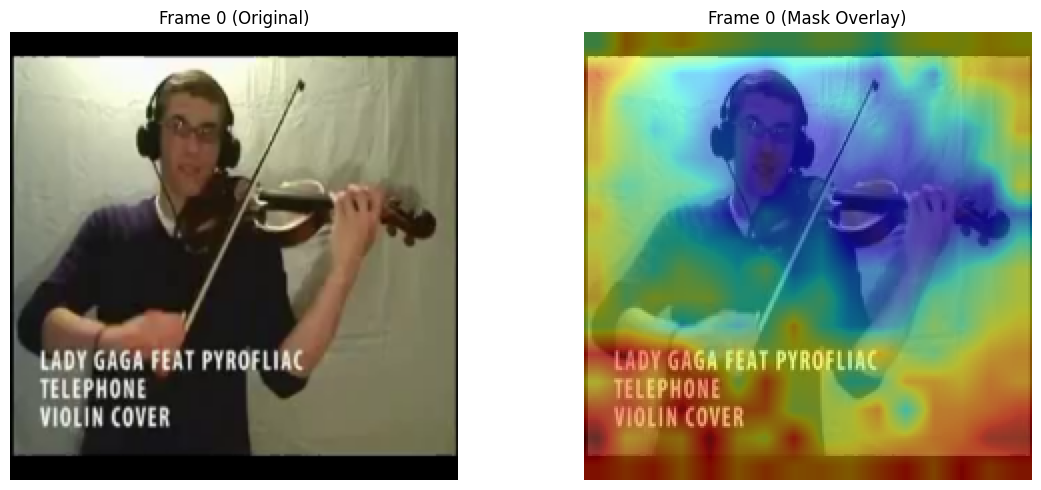
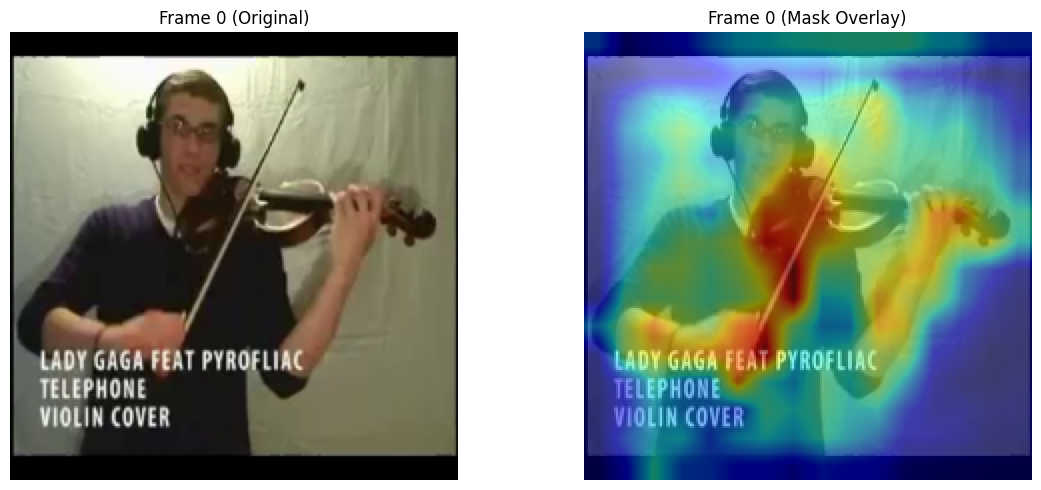
dinon finetune initial

diff --git a/DiffTrack/point_sampling/train_new.py b/DiffTrack/point_sampling/train_new.py
@@ -1,5 +1,5 @@
 import os
-os.environ["CUDA_VISIBLE_DEVICES"] = "0,1,2,3"
+os.environ["CUDA_VISIBLE_DEVICES"] = "2,3,4,5"
 
 import torch
 import torch.nn.functional as F
@@ -9,7 +9,7 @@ from torch.utils.data import DataLoader
 from model_finetune import DINOv2_LoRA, get_robust_mask
 import random
 import numpy as np
-from data_utils import UCFRep_Finetune
+from data_utils import UCFRep_finetune
 SEED = 42
 
 def seed_everything(seed: int = SEED) -> None:
@@ -29,21 +29,14 @@ def train():
     device = torch.device("cuda" if torch.cuda.is_available() else "cpu")
     
     #use the new hybrid dataset
-    dataset = UCFRep_Finetune(
-        mp4_dir="UCF_Rep/train", 
+    dataset = UCFRep_finetune(
+        mp4_dir="UCF_Rep/train",
         pt_dir="ucfrep_intermediate_dataset", 
     )
     dataloader = DataLoader(dataset, batch_size=16, shuffle=True, drop_last=True) #EXPERIMENT WITH BATCH NEGATIVES LATER??
     
-    
-    '''
-    now make the mask using flow + depth:
-    '''
-    
-    
-    
-    #init lora model
-    model = DINOv2_LoRA().to(device)
+    #init lora model with the new head
+    model = DINOv2_LoRA().to(device)    
     
     num_gpus = torch.cuda.device_count() 
     print(f"Active GPUs for this session: {num_gpus}")
@@ -51,101 +44,100 @@ def train():
     if num_gpus > 1:
         model = nn.DataParallel(model)
         
-    #only optimize the lora parameters, not the frozen backbone
-    #learning rate slightly higher for lora is standard practice
+    #only optimize the lora parameters AND the new seg_head
     optimizer = optim.Adam(model.parameters(), lr=1e-4)
     temperature = 0.07
     
-    #we can use amp safely now because rgb inputs are small
-    scaler = torch.amp.GradScaler('cuda')
+    #can use amp safely now because rgb inputs are small
+    # scaler = torch.amp.GradScaler('cuda')
     model.train()
     
-    for epoch in range(10):
+    for epoch in range(100):
         for batch_idx, batch in enumerate(dataloader):
             optimizer.zero_grad()
             
-            #1. move rgb frames to gpu for the model
-            anchor_pixels = batch["anchor_pixels"].to(device) #[b, t, 3, 224, 224]
-            pos_pixels = batch["pos_pixels"].to(device)
-            B, T = anchor_pixels.shape[0], anchor_pixels.shape[1]
+            # 1. Stack anchor and pos to create the T=2 dimension for the model
+            # [B, C, H, W] -> unsqueeze -> [B, 1, C, H, W] -> concat -> [B, 2, C, H, W]
+            pixels = torch.cat([batch["im1_pixels"].unsqueeze(1), batch["im2_pixels"].unsqueeze(1)], dim=1).to(device)
+            flow = torch.cat([batch["im1_flow"].unsqueeze(1), batch["im2_flow"].unsqueeze(1)], dim=1).to(device)
+            depth = torch.cat([batch["im1_depth"].unsqueeze(1), batch["im2_depth"].unsqueeze(1)], dim=1).to(device)
             
-            #2. keep physics on cpu temporarily to save vram
-            #they are only needed for the loss math later
-            anchor_flow = batch["anchor_flow"]
-            anchor_depth = batch["anchor_depth"]
-            pos_flow = batch["pos_flow"]
-            pos_depth = batch["pos_depth"]
-
-            with torch.amp.autocast('cuda'):
-                #dino features out - [b, t, 768, 16, 16]
-                anchor_dino = model(anchor_pixels)
-                pos_dino = model(pos_pixels)
-
-                #calculate masks using robust physics heuristic
-                anchor_mask_224 = get_robust_mask(anchor_flow, anchor_depth).to(device) #[b, t, 1, 224, 224]
-                pos_mask_224 = get_robust_mask(pos_flow, pos_depth).to(device)
-                
-                curr_bt = anchor_mask_224.shape[0] * anchor_mask_224.shape[1]
-                
-                #downsample masks from 224x224 to 16x16 to match dino patches
-                #we reshape to 4d for interpolate, then back to 5d
-                anchor_mask = F.interpolate(
-                    anchor_mask_224.view(curr_bt, 1, 224, 224), 
-                    size=(16, 16), 
-                    mode='nearest'
-                ).view(B, T, 1, 16, 16)
-                
-                pos_mask = F.interpolate(
-                    pos_mask_224.view(curr_bt, 1, 224, 224), 
-                    size=(16, 16), 
-                    mode='nearest'
-                ).view(B, T, 1, 16, 16)
-
-                #weighted averaging
-                #we sum across time (dim=1) and space (dim=3,4) to get one single vector per video
-                anchor_vec = torch.sum(anchor_dino * anchor_mask, dim=(1, 3, 4)) / (torch.sum(anchor_mask, dim=(1, 3, 4)) + 1e-8)
-                pos_vec = torch.sum(pos_dino * pos_mask, dim=(1, 3, 4)) / (torch.sum(pos_mask, dim=(1, 3, 4)) + 1e-8)
-                
-                anchor_vec = F.normalize(anchor_vec, dim=1) #[b, 768]
-                pos_vec = F.normalize(pos_vec, dim=1) #[b, 768]
-                
-                '''
-                contrastive learning loss! - infoNCE
-                '''
-                #infonce logits (temporal positives/negatives)
-                temporal_logits = torch.matmul(anchor_vec, pos_vec.T) / temperature #diagonals should tend to 1(positives)
-                
-                #spatial negatives (background of the same videos)
-                anchor_bg_mask = 1.0 - anchor_mask
-                anchor_bg_vec = F.normalize(torch.sum(anchor_dino * anchor_bg_mask, dim=(1, 3, 4)) / (torch.sum(anchor_bg_mask, dim=(1, 3, 4)) + 1e-8), dim=1)
-                anchor_spatial_logits = torch.sum(anchor_vec * anchor_bg_vec, dim=1, keepdim=True) / temperature
-                
-                pos_bg_mask = 1.0 - pos_mask
-                pos_bg_vec = F.normalize(torch.sum(pos_dino * pos_bg_mask, dim=(1, 3, 4)) / (torch.sum(pos_bg_mask, dim=(1, 3, 4)) + 1e-8), dim=1)
-                pos_spatial_logits = torch.sum(anchor_vec * pos_bg_vec, dim=1, keepdim=True) / temperature
-
-                #dot prod b/w bg_vec and vec s hould be very low..
-                
-                #combine and calculate loss
-                logits = torch.cat([temporal_logits, anchor_spatial_logits, pos_spatial_logits], dim=1)
-                labels = torch.arange(B).to(device)
-                loss = F.cross_entropy(logits, labels)
+            b, t = pixels.shape[0], pixels.shape[1]
             
-            #scale and step
-            scaler.scale(loss).backward()
-            scaler.step(optimizer)
-            scaler.update()
+
+            # with torch.amp.autocast('cuda'):
+            outputs = model(pixels)
+            patch_features = outputs["patch_features"] # [B, 2, 768, 16, 16]
+            pred_mask = outputs["pred_mask"]  # [B, 2, 1, 16, 16]
+
+            #creating flow+depth mask
+            high_res_mask = get_robust_mask(flow, depth) #[B, 2, 1, 224, 224]
+            #downsample it
+            high_res_mask_flat = high_res_mask.view(b * t, 1, 224, 224)
+            low_res_mask = F.interpolate(high_res_mask_flat, size=(16, 16), mode='nearest')
+            binary_mask = low_res_mask.view(b, t, 1, 16, 16) # [B, 2, 1, 16, 16]..but will downsampling ruin the mask??
+            
+            #cross entropy loss [CHECK PAPER: 'wholly unsupervised!..']
+            loss_ce = F.binary_cross_entropy(pred_mask, binary_mask)
+            
+            #contrastive loss
+            features_flat = patch_features.permute(0, 1, 3, 4, 2).reshape(-1, 768) # [num patches, 768]
+            features_flat = F.normalize(features_flat, dim=1)
+            
+            mask_flat = binary_mask.view(-1)
+            
+            #seperation
+            actor_vectors = features_flat[mask_flat == 1]
+            bg_vectors = features_flat[mask_flat == 0]
+            
+            loss_cr = torch.tensor(0.0, device=device)
+            
+            if actor_vectors.size(0) > 1 and bg_vectors.size(0) > 0:
+                
+                #similarity between all actors (positive set!)
+                sim_pos = torch.matmul(actor_vectors, actor_vectors.T) / temperature
+                
+                # mask out the diagonal (self similarity avoiding)
+                eye = torch.eye(sim_pos.size(0), device=device, dtype=torch.bool)
+                sim_pos = sim_pos.masked_fill(eye, -1e9)
+                
+                # imilarity between actors and background (negative set)
+                sim_neg = torch.matmul(actor_vectors, bg_vectors.T) / temperature
+                
+                #math
+                max_val = torch.max(torch.cat([sim_pos, sim_neg], dim=1), dim=1, keepdim=True)[0]
+                exp_pos = torch.exp(sim_pos - max_val)
+                exp_neg = torch.exp(sim_neg - max_val)
+                
+                #InfoNCE
+                sum_exp_pos = exp_pos.sum(dim=1)
+                sum_exp_neg = exp_neg.sum(dim=1)
+                prob = sum_exp_pos / (sum_exp_pos + sum_exp_neg + 1e-8)
+                
+                # final CR loss is the negative log of that probability
+                loss_cr = -torch.log(prob + 1e-8).mean()
+            
+            total_loss = loss_ce + loss_cr
+                
+            # #scale and step
+            # scaler.scale(total_loss).backward()
+            # scaler.step(optimizer)
+            # scaler.update()
+            
+            total_loss.backward()
+            optimizer.step()
             
             if batch_idx % 5 == 0:
-                print(f"Epoch: {epoch}, Batch: {batch_idx}, Loss: {loss.item():.4f}")
+                print(f"Epoch: {epoch}, Batch: {batch_idx}, Total Loss: {total_loss.item():.4f} (CE: {loss_ce.item():.4f}, CR: {loss_cr.item():.4f})")
         
         os.makedirs("test_models", exist_ok=True)
-        checkpoint_path = os.path.join("test_models", f"lora_dino_epoch_{epoch}.pth")
-        
-        #safeguard for data parallel saving
-        save_state = model.module.state_dict() if num_gpus > 1 else model.state_dict()
-        torch.save(save_state, checkpoint_path)
-        print(f"Model saved to {checkpoint_path}")
+        checkpoint_path = os.path.join("test_models", f"new_lora_dino_epoch_{epoch}.pth")
+        # Save checkpoint every 50th epoch (50, 100, ...)
+        if (epoch + 1) % 25 == 0:
+            # safeguard for DataParallel saving
+            save_state = model.module.state_dict() if num_gpus > 1 else model.state_dict()
+            torch.save(save_state, checkpoint_path)
+            print(f"Model saved to {checkpoint_path}")
         
 if __name__ == "__main__":
     train()

diff --git a/DiffTrack/point_sampling/model_finetune.py b/DiffTrack/point_sampling/model_finetune.py
@@ -23,24 +23,37 @@ class DINOv2_LoRA(nn.Module):
         
         #wrap the model so we only train the tiny lora adapters
         self.model = get_peft_model(self.backbone, config)
+        
+        '''
+        NEW!- adding a head after finetuning for mask generation..
+        '''
+        self.seg_head = nn.Sequential(
+            nn.Conv2d(768, 1, kernel_size=1), #768d is the output of DINOv2-base
+            nn.Sigmoid() #output 0-1
+        )
 
     def forward(self, x):
-        #x input shape: [b, t, 3, 224, 224]
+        #x input shape: [b, t, 3, 224, 224]. #NOW T=2, there are only 2 image pairs.
         b, t, c, h, w = x.shape
         
         #squash b and t to process frames through dino in one go
-        x = x.view(b * t, c, h, w) #ts is now [32, 3, 224, 224]
+        x = x.view(b * t, c, h, w) #ts is now [b*2, 3, 224, 224]
         
         #run through lora-wrapped dino
         outputs = self.model(x)
-        features = outputs.last_hidden_state #[b*t, 257, 768] -> [32, 257, 768]; 256 patch tokens + [cls] token
+        features = outputs.last_hidden_state #[b*t, 257, 768]; 256 patch tokens + [cls] token
         
         #grab patch tokens (ignore cls token at index 0)
         #reshape back to [b*t, 768, 16, 16] for spatial masking later
         patch_features = features[:, 1:, :].permute(0, 2, 1).view(b * t, 768, 16, 16)
         
-        #separate batch and time again before returning
-        return patch_features.view(b, t, 768, 16, 16)
+        #pass the predicted patch tokens into head, to get mask
+        pred_mask = self.seg_head(patch_features)
+        return {
+            "patch_features": patch_features.view(b, t, 768, 16, 16),
+            "pred_mask": pred_mask.view(b, t, 1, 16, 16)
+        }
+        
 
 def get_robust_mask(flow, depth, threshold_multiplier=1.2):
     #flow shape: [b, t, 2, h, w], depth shape: [b, t, 1, h, w]
@@ -48,15 +61,18 @@ def get_robust_mask(flow, depth, threshold_multiplier=1.2):
     
     # calculate motion magnitude
     mag = torch.norm(flow, dim=2, keepdim=True) #[b, t, 1, h, w]
-    
-    #normalize depth to 0-1 range
-    depth_norm = depth / (depth.max() + 1e-8) #higher is closer, lower is farther
+        
+    #normalizing per frame- f_max: [b, t, 1, 1, 1]
+    f_max = depth.flatten(2).max(dim=-1)[0].view(depth.shape[0], depth.shape[1], 1, 1, 1)
+    depth_norm = depth / (f_max + 1e-8)
     
     combined_score = mag * depth_norm
     
     #instead of a hard cutoff, we only take pixels 'more active' than the average
     #this saves us if the whole frame is panning
     mean_score = combined_score.mean(dim=(3, 4), keepdim=True) #[4, 8, 1, 1, 1]
-    binary_mask = (combined_score > (mean_score * threshold_multiplier)).float()
+    thresh = torch.clamp(mean_score * threshold_multiplier, min=0.01)
+    
+    binary_mask = (combined_score > thresh).float()
     
     return binary_mask

diff --git a/DiffTrack/point_sampling/finetune_dino_test.py b/DiffTrack/point_sampling/finetune_dino_test.py
@@ -8,9 +8,9 @@ import matplotlib.pyplot as plt
 from transformers import AutoModel
 # from sklearn.cluster import KMeans
 
-checkpoint_path = "test_models/lora_dino_epoch_1.pth" 
-video_path = "UCF_Rep/val/v_PlayingViolin_g22_c02.mp4" #pick a specific video to test
-# video_path = "vids_mp4/swim.mp4" #pick a specific video to test 
+checkpoint_path = "test_models/new_lora_dino_epoch_49.pth" 
+video_path = "UCF_Rep/val/v_CuttingInKitchen_g21_c01.mp4" #pick a specific video to test
+# video_path = "vids_mp4/benchpress.mp4" #pick a specific video to test 
 # video_path = "countix/-dxBq0WzYRU_35.42309_37.71705.mp4"
 device = torch.device("cuda" if torch.cuda.is_available() else "cpu")
 
@@ -44,13 +44,13 @@ def visualize():
 
     with torch.no_grad():
         #features shape: [1, T, 768, 16, 16]
-        features = model(input_tensor)
+        outputs = model(input_tensor)
         
         #calculate self-similarity to find the 'actor'
         #we take the average feature vector as the 'goal'
         #then see which patches look most like it
-        avg_feature = features.mean(dim=(1, 3, 4), keepdim=True) # [1, 1, 768, 1, 1]
-        sim_map = torch.cosine_similarity(features, avg_feature, dim=2) # [1, T, 16, 16]
+        features = outputs["patch_features"]
+        predicted_mask = outputs["pred_mask"]
 
         # '''
         # alt method
@@ -99,9 +99,10 @@ def visualize():
         
     #4. plotting (first frame only)
     fig, axes = plt.subplots(1, 2, figsize=(12, 5))
+    heatmap_tensor = predicted_mask[0, 0].unsqueeze(0)
 
     heatmap = F.interpolate(
-        sim_map[0, 0].view(1, 1, 16, 16),
+        heatmap_tensor, # Take first frame of the pair
         size=(224, 224),
         mode='bilinear'
     ).squeeze().cpu().numpy()
@@ -121,11 +122,11 @@ def visualize():
     # cbar.set_label('similarity to actor vector', rotation=270, labelpad=15)
 
     plt.tight_layout()
-    os.makedirs("point_sampling/finetuned_test/", exist_ok=True)
+    os.makedirs("point_sampling/finetuned_test_new/", exist_ok=True)
     
     # Extract video name without .mp4 and leading directories
     video_name = os.path.splitext(os.path.basename(video_path))[0]
-    save_name = f"point_sampling/finetuned_test/{video_name}_dino_mask.png"
+    save_name = f"point_sampling/finetuned_test_new/{video_name}_dino_mask.png"
     plt.savefig(save_name, bbox_inches='tight')
     print(f"saved visualization to {save_name}")
 

diff --git a/DiffTrack/point_sampling/data_utils.py b/DiffTrack/point_sampling/data_utils.py
@@ -302,6 +302,7 @@ class UCFRep_finetune(Dataset):
         self.mp4_dir = mp4_dir
         self.video_names = [f for f in os.listdir(pt_dir) if os.path.isdir(os.path.join(pt_dir, f))]
         self.k = k
+        self.pt_dir = pt_dir
         
         self.norm_mean = torch.tensor([0.485, 0.456, 0.406]).view(3, 1, 1)
         self.norm_std = torch.tensor([0.229, 0.224, 0.225]).view(3, 1, 1)
